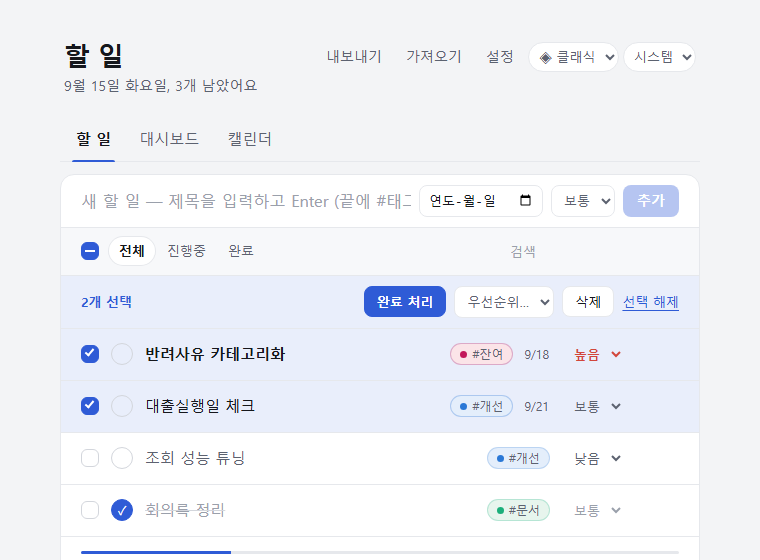
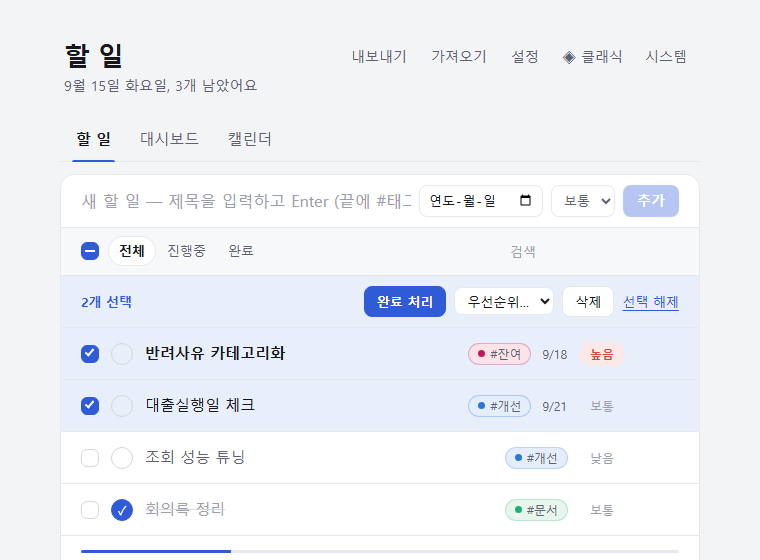
Restyle the dropdowns to sit in their surroundings
A native arrow on every row made the list noisy, and the header selects read
as form controls next to the text buttons.

- An item's priority is a quiet pill again (appearance:none, no arrow); the
  hover border is what says it opens. "높음" keeps its soft red fill
- Header theme/skin selects lose their border and match the ghost buttons
- The bulk bar's priority select matches the height of the buttons beside it

Selects inside forms (add row, detail, settings) keep the native arrow, which
is right in a form.

diff --git a/src/App.css b/src/App.css
@@ -77,22 +77,24 @@
   color: var(--ink);
 }
 
-/* 머리글의 스킨·테마 고르기 — 목록에서 직접 선택 */
+/* 머리글의 스킨·테마 고르기 — 옆의 글자 버튼들과 같은 결로 */
 .header-select {
-  height: 30px;
-  padding: 0 6px;
-  border: 1px solid var(--line);
-  border-radius: 999px;
-  background: var(--sheet);
+  appearance: none;
+  height: 32px;
+  padding: 0 8px;
+  border: 1px solid transparent;
+  border-radius: 8px;
+  background: transparent;
   color: var(--ink-2);
-  font-size: 13px;
+  font-size: 14px;
+  text-align: center;
   cursor: pointer;
-  transition: border-color 0.15s, color 0.15s;
+  transition: color 0.15s, background 0.15s;
 }
 
 .header-select:hover {
-  border-color: var(--line-2);
   color: var(--ink);
+  background: var(--sheet-2);
 }
 
 /* ===== 탭 ===== */
@@ -469,8 +471,17 @@
   color: var(--high);
 }
 
+/* 일괄 막대의 우선순위 고르기 — 옆 버튼들과 높이를 맞춘다 */
 .bulk-select {
   display: inline-flex;
+}
+
+.bulk-select .priority-select {
+  height: 28px;
+  padding: 0 4px 0 10px;
+  border-radius: 8px;
+  background: var(--sheet);
+  color: var(--ink);
 }
 
 /* 제목은 버튼 — 누르면 상세. 글자처럼 보이게 */
@@ -538,17 +549,33 @@ button.todo-item-text:hover {
   font-weight: 400;
 }
 
-/* 줄 안의 우선순위 선택은 조용하게 — 값이 "높음"일 때만 눈에 띈다(.priority-select.priority-high) */
+/* 줄 안의 우선순위 — 칩처럼 조용히 앉아 있다가 누르면 목록이 열린다.
+   줄마다 화살표가 붙으면 목록이 시끄러워서 기본 화살표는 지웠다(hover 때 테두리로 눌린다는 걸 알린다) */
 .todo-item .priority-select {
+  appearance: none;
   flex-shrink: 0;
-  height: 26px;
-  border-color: transparent;
+  height: 24px;
+  padding: 0 10px;
+  border: 1px solid transparent;
+  border-radius: 999px;
   background: transparent;
+  color: var(--ink-3);
+  font-size: 12px;
+  text-align: center;
+  transition: color 0.15s, border-color 0.15s, background 0.15s;
 }
 
 .todo-item .priority-select:hover {
+  color: var(--ink);
   border-color: var(--line);
   background: var(--sheet);
+}
+
+.todo-item .priority-select.priority-high {
+  color: var(--high);
+  border-color: transparent;
+  background: var(--high-soft);
+  font-weight: 600;
 }
 
 .todo-item.completed .priority-select {

diff --git a/src/components/Todo/BulkBar.jsx b/src/components/Todo/BulkBar.jsx
@@ -13,7 +13,7 @@ function BulkBar({ count, allDone, onSetCompleted, onSetPriority, onRemove, onCl
                     <span className="sr-only">선택한 항목의 우선순위</span>
                     <select className="priority-select" defaultValue=""
                         onChange={(e) => { if (e.target.value) { onSetPriority(e.target.value); e.target.value = ''; } }}>
-                        <option value="" disabled>우선순위…</option>
+                        <option value="" disabled>우선순위</option>
                         {PRIORITIES.map(p => <option key={p} value={p}>{PRIORITY_LABEL[p]}</option>)}
                     </select>
                 </label>

diff --git a/claude-memory/project_todo_app.md b/claude-memory/project_todo_app.md
@@ -72,3 +72,7 @@ Building a Todo List app in `c:\eduReact` (Vite + React 19 + JS) as a React lear
 - 테스트 39개.
 
 **oxlint react(purity) 함정:** 컴포넌트 본문 함수 안의 `Date.now()` 는 그 함수가 **props 로 직접 전달될 때만** 핸들러로 인정된다. `onX={() => fn(true)}` 처럼 화살표로 감싸면 "렌더 중 호출"로 오탐한다 → JSX 안에 인라인 화살표로 dispatch 하면 깨끗해진다.
+
+**2026-09-15 밤 8: 드롭다운 디자인 손질.** 줄마다 브라우저 기본 화살표가 붙어 목록이 시끄럽고 머리글 셀렉트가 옆 글자 버튼들과 안 맞는다는 지적 → ① `.todo-item .priority-select` 는 `appearance:none` + 알약 칩 모양(화살표 없음, hover 때 테두리로 눌린다는 걸 알림), 높음일 때만 `--high-soft` 배경 ② `.header-select` 는 테두리 없이 ghost-btn 과 같은 결(hover 때 `--sheet-2`) ③ 일괄 막대 셀렉트는 높이 28px 로 옆 버튼과 맞춤. 폼(추가 줄·상세·설정)의 셀렉트는 기본 화살표 유지 — 폼 문맥에선 그게 맞다.
+
+**localStorage 저장 형식이 두 가지다 (스크린샷 시드 짤 때 두 번 틀림):** `theme`·`skin` 은 `useRootAttr` 가 **원시 문자열**로 읽고 쓴다(`index.html` 인라인 스크립트도 동일). `colorBy`·`tagColors`·`revUrl`·`todos` 는 `useLocalState`/`usePersistedReducer` 라 **JSON**. 시드할 때 `localStorage.setItem('skin','neo')` vs `setItem('colorBy', JSON.stringify('tag'))`.
